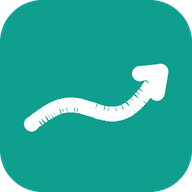
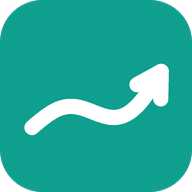
部署改为同步到 gh-pages 分支；重绘图标
Claude-Session: https://claude.ai/code/session_01EyWth1XQK3U3mT2SRW7E6p

Changed region(s): [[0.125, 0.3125, 0.9062, 0.7188]]

diff --git a/README.md b/README.md
@@ -20,7 +20,7 @@ python3 -m http.server 8000
 **https://zeliny0109.github.io/gendu/**
 
 - 手机浏览器打开后，可"添加到主屏幕"（iPhone 用 Safari 分享菜单；Android 用 Chrome 菜单里的"安装应用"），之后像普通 App 一样点图标打开，离线也能用。
-- 代码放在 https://github.com/zeliny0109/gendu ，推送到 main 分支后 GitHub Actions 会自动重新部署（见 .github/workflows/pages.yml）。
+- 代码放在 https://github.com/zeliny0109/gendu ，推送到 main 分支后 GitHub Actions 会自动把内容同步到 gh-pages 分支并重新发布（见 .github/workflows/pages.yml）。
 
 ### 更新方法
 
